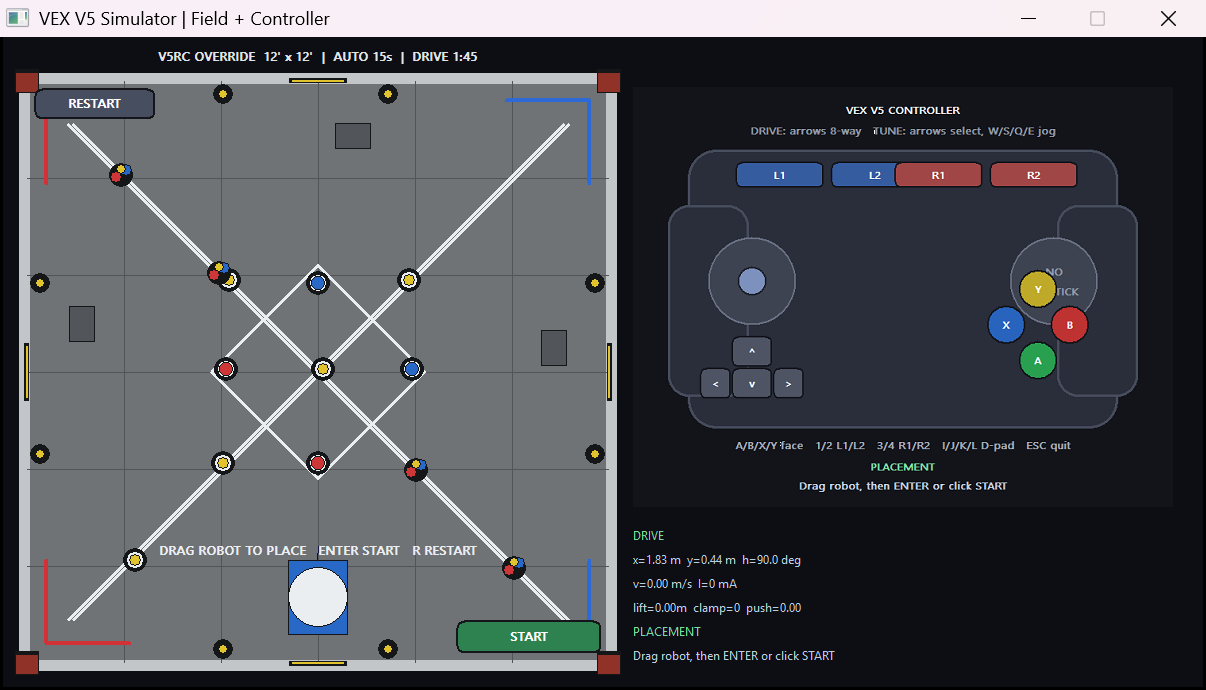
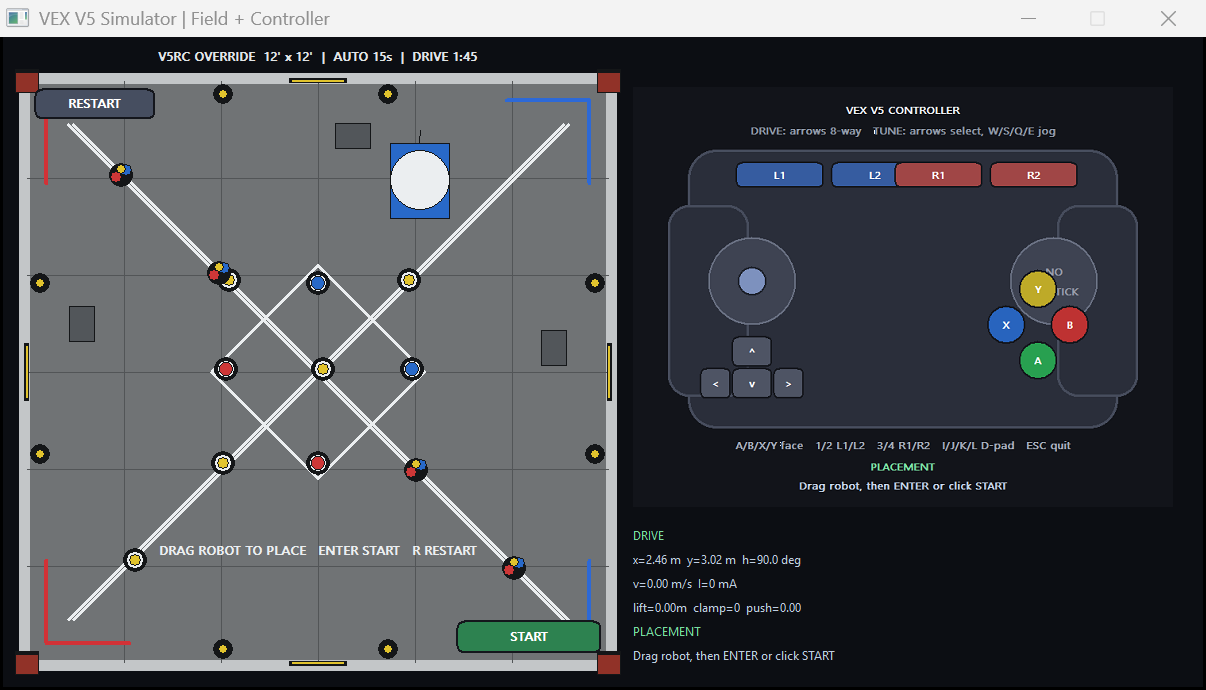
Fix placement trail and add cone collision

diff --git a/sim/controller_ui_main.cpp b/sim/controller_ui_main.cpp
@@ -31,6 +31,8 @@ constexpr double kFieldSizeM = 3.6576;
 constexpr double kGoalPositions[9][2] = {{0.655, 0.345}, {0.510, 0.495}, {0.340, 0.655},
                                          {0.190, 0.820}, {0.350, 0.345}, {0.500, 0.350},
                                          {0.660, 0.495}, {0.345, 0.495}, {0.500, 0.655}};
+constexpr double kConePositions[4][2] = {
+    {1.0 / 6.0, 1.0 / 6.0}, {2.0 / 6.0, 2.0 / 6.0}, {4.0 / 6.0, 4.0 / 6.0}, {5.0 / 6.0, 5.0 / 6.0}};
 
 void updateFieldCollision(sim_physics::ChassisSim &physics, const sim::ControllerUi &ui) {
     const double x = physics.getPoseXMeters();
@@ -49,6 +51,18 @@ void updateFieldCollision(sim_physics::ChassisSim &physics, const sim::Controlle
         const double gy = (1.0 - goal[1]) * kFieldSizeM;
         const double dx = x - gx;
         const double dy = y - gy;
+        if (dx * dx + dy * dy < 0.04) {
+            physics.setCollisionObject(sim_physics::CollisionObject::Cone);
+            return;
+        }
+    }
+
+    // 四组起始锥：锥体可以被底盘推开，推开后 ChassisSim 会解除碰撞对象。
+    for (const auto &cone : kConePositions) {
+        const double cx = cone[0] * kFieldSizeM;
+        const double cy = (1.0 - cone[1]) * kFieldSizeM;
+        const double dx = x - cx;
+        const double dy = y - cy;
         if (dx * dx + dy * dy < 0.04) {
             physics.setCollisionObject(sim_physics::CollisionObject::Cone);
             return;

diff --git a/sim/physics/chassis_sim.cpp b/sim/physics/chassis_sim.cpp
@@ -50,11 +50,13 @@ void ChassisSim::setPose(double x_m, double y_m, double heading_deg) {
 }
 
 void ChassisSim::setCollisionObject(CollisionObject obj) {
-    m_current_object = obj;
-    if (obj == CollisionObject::OpponentCar)
+    // 每帧都会重新注入碰撞对象；不能在锥仍接触时反复清零它的速度，
+    // 否则锥永远推不动。只在“刚进入该碰撞类型”时重置对向速度。
+    if (obj == CollisionObject::OpponentCar && m_current_object != obj)
         m_opponent_car_velocity = 0.0;
-    else if (obj == CollisionObject::Cone)
+    else if (obj == CollisionObject::Cone && m_current_object != obj)
         m_cone_velocity = 0.0;
+    m_current_object = obj;
 }
 
 void ChassisSim::setBeingPushedByOpponent(bool pushed, double push_force_nm) {
@@ -92,6 +94,10 @@ double ChassisSim::getPoseHeadingDeg() const {
 
 double ChassisSim::getTotalCurrentMa() const {
     return m_total_current_ma;
+}
+
+double ChassisSim::getConeVelocityMps() const {
+    return m_cone_velocity;
 }
 
 // Legacy simulation API. New code should use the camelCase names above.

diff --git a/tests/test_sim.cpp b/tests/test_sim.cpp
@@ -80,6 +80,17 @@ void test_sim() {
         chassis.step(0.01);
     CHECK(std::fabs(chassis.getPoseHeadingDeg()) > 5.0);
 
+    // ==================== 撞锥：底盘把锥推开 ====================
+    chassis.reset();
+    chassis.setCollisionObject(sim_physics::CollisionObject::Cone);
+    lf.move(100);
+    lb.move(100);
+    rf.move(100);
+    rb.move(100);
+    for (int i = 0; i < 20; ++i)
+        chassis.step(0.01);
+    CHECK(chassis.getConeVelocityMps() > 0.0);
+
     // ==================== 级联抬升 / 夹爪 / 推板 ====================
     sim::SimMechanism mechanism;
     mechanism.liftTo(0.60, 127);

diff --git a/sim/ui/controller_ui.cpp b/sim/ui/controller_ui.cpp
@@ -263,7 +263,8 @@ void ControllerUi::setStatusText(const char *line1, const char *line2) {
 
 void ControllerUi::setFieldState(const FieldState &state) {
     m_field = state;
-    if (!state.valid)
+    // 放置阶段拖动只是选位，不能写入场地轨迹。
+    if (!state.valid || m_placement_active)
         return;
 
     bool add = (m_trail_count == 0);

diff --git a/sim/physics/chassis_sim.hpp b/sim/physics/chassis_sim.hpp
@@ -48,6 +48,7 @@ public:
     double getPoseYMeters() const;
     double getPoseHeadingDeg() const;
     double getTotalCurrentMa() const;
+    double getConeVelocityMps() const;
 
     // 兼容旧仿真调用；新代码使用上面的 camelCase 接口。
     double get_chassis_velocity_mps() const;

diff --git a/README.md b/README.md
@@ -147,8 +147,9 @@ ctest --preset host-debug --output-on-failure
 
 `vex_sim_ui` 会打开一个比赛场地 + 手柄窗口：
 
-- 启动后先进入放置模式：鼠标点击/拖拽选择底盘位置，`Enter` 或点击 `START` 后锁定并开始仿真。
-- 左侧 12ft × 12ft 场地：灰色地垫、2ft 网格、9 个得分座、8 个围边节点、4 个三色筒、4 个导入桶、自动分界线、起始锥和底盘轨迹。
+- 启动后先进入放置模式：鼠标点击/拖拽选择底盘位置，拖拽过程不写轨迹；`Enter` 或点击 `START` 后锁定并开始仿真。
+- 左侧 12ft × 12ft 场地：灰色地垫、2ft 网格、9 个得分座、8 个围边节点、4 个三色筒、4 个导入桶、自动分界线、4 组起始锥和底盘轨迹。
+- 得分座与 4 组起始锥都有碰撞体；撞锥会先减速，推得动时锥会被推开并解除碰撞。
 - 右侧：VEX 手柄、模式/位姿/速度/电流/机构状态。
 - 顶部比赛提示：`AUTO 15s | DRIVE 1:45`。
 - `R` 或场上的 `RESTART` 按钮会复位时钟、电池、机构、轨迹并回到放置模式。

diff --git a/sim/ui/sim-ui-instances/README.md b/sim/ui/sim-ui-instances/README.md
@@ -10,7 +10,7 @@
 | `04-joystick-diagonal.png` | 方向键 `↑ + →`，左摇杆右前方向 |
 | `05-tune-jog.png` | TUNE 模式下按住 L1 + W/S/Q/E 低速点动 |
 | `06-real-field.png` | 按比赛俯视图重建后的场地初始画面 |
-| `07-placement.png` | 启动后的鼠标放置模式 |
+| `07-placement.png` | 启动后的鼠标放置模式，拖拽不留轨迹 |
 | `08-placement-started.png` | 确认位置后开始仿真 |
 | `09-restart.png` | R / RESTART 后回到放置模式 |
 | `10-mouse-start.png` | 鼠标点击 START 开始仿真 |
